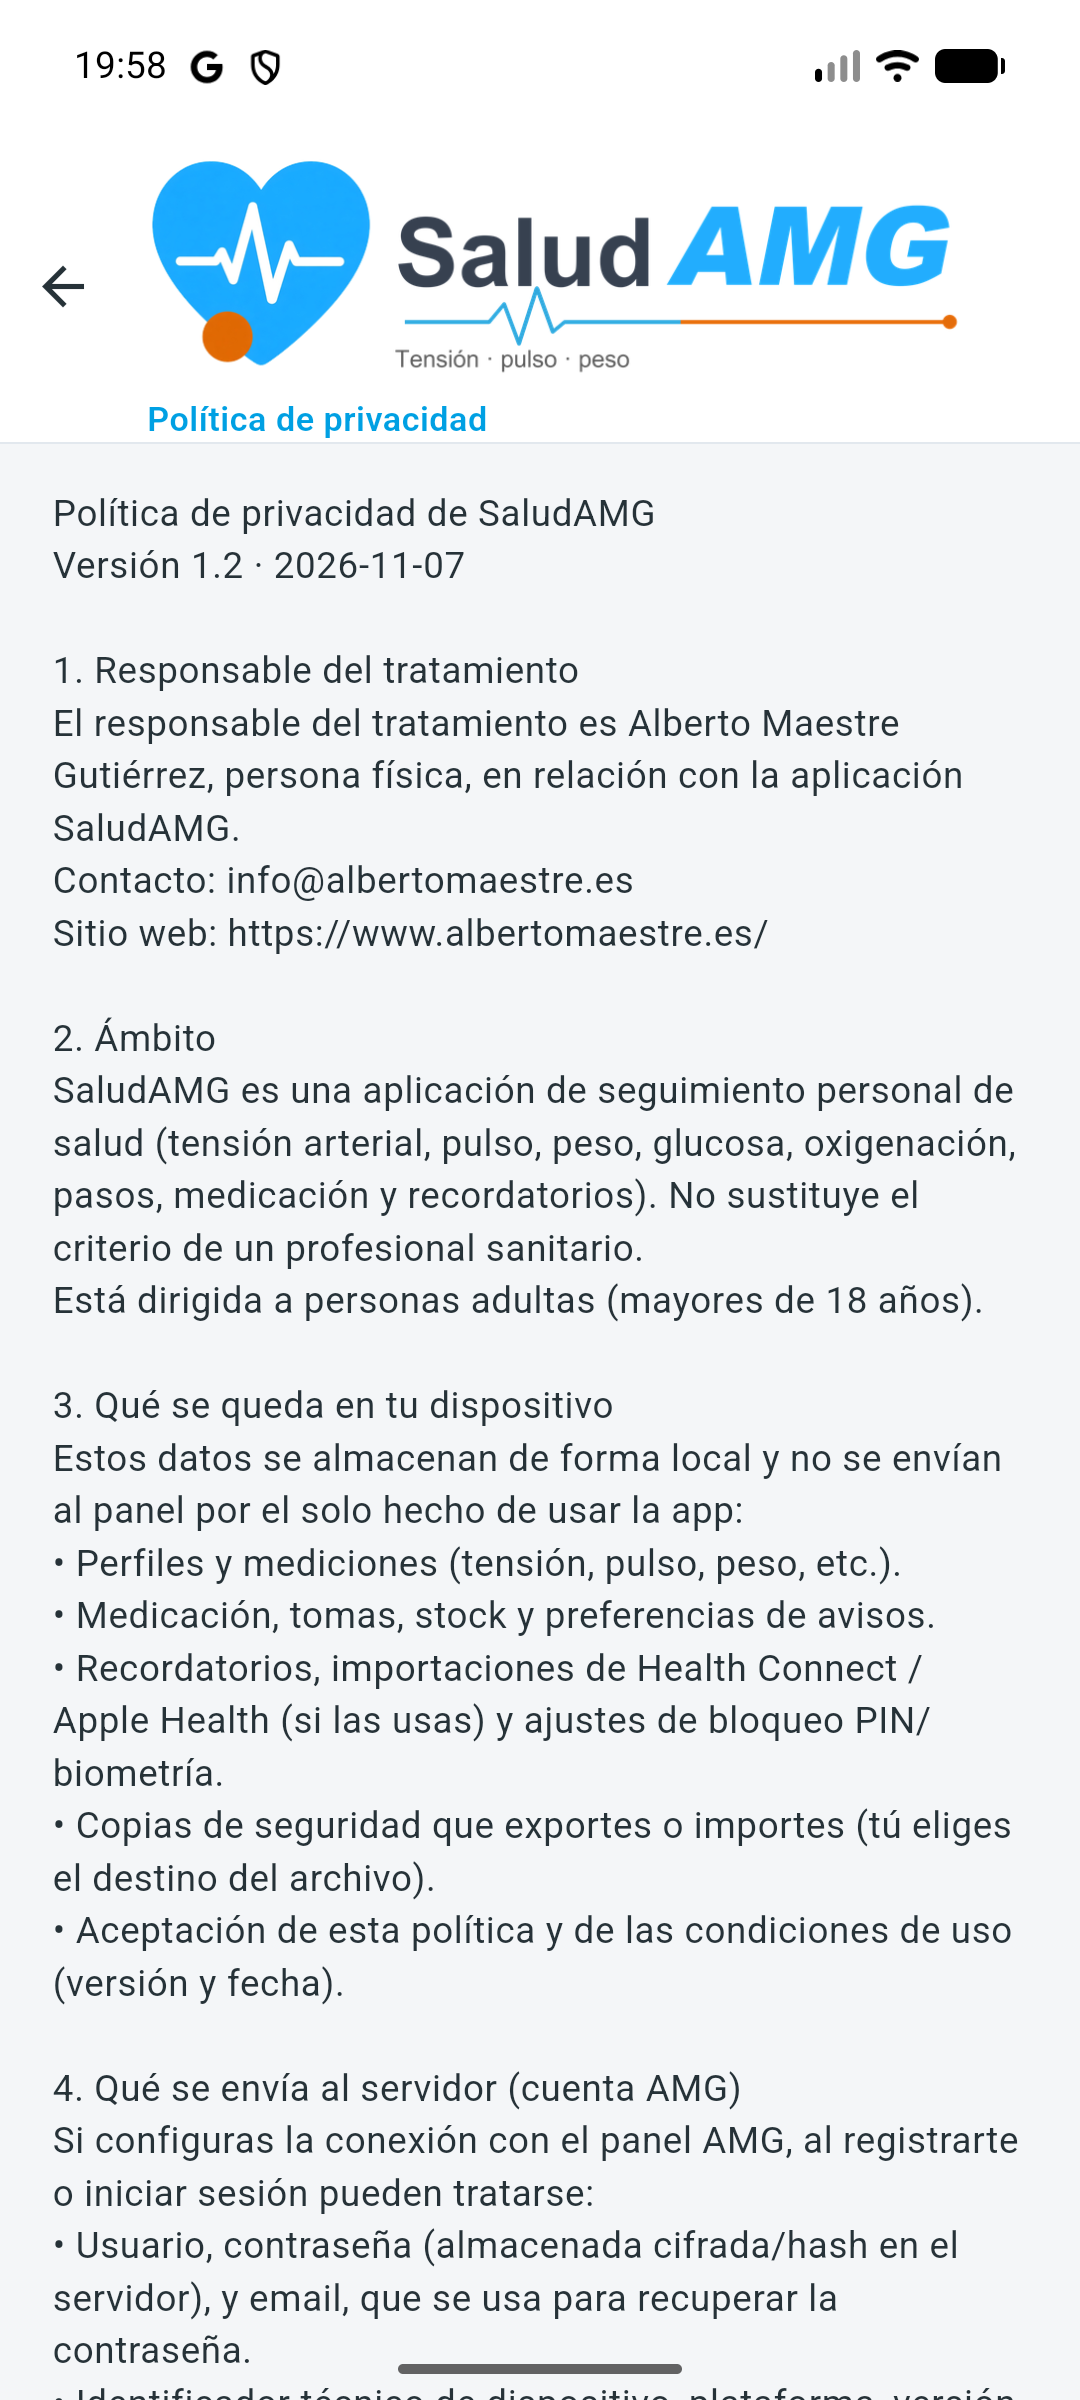
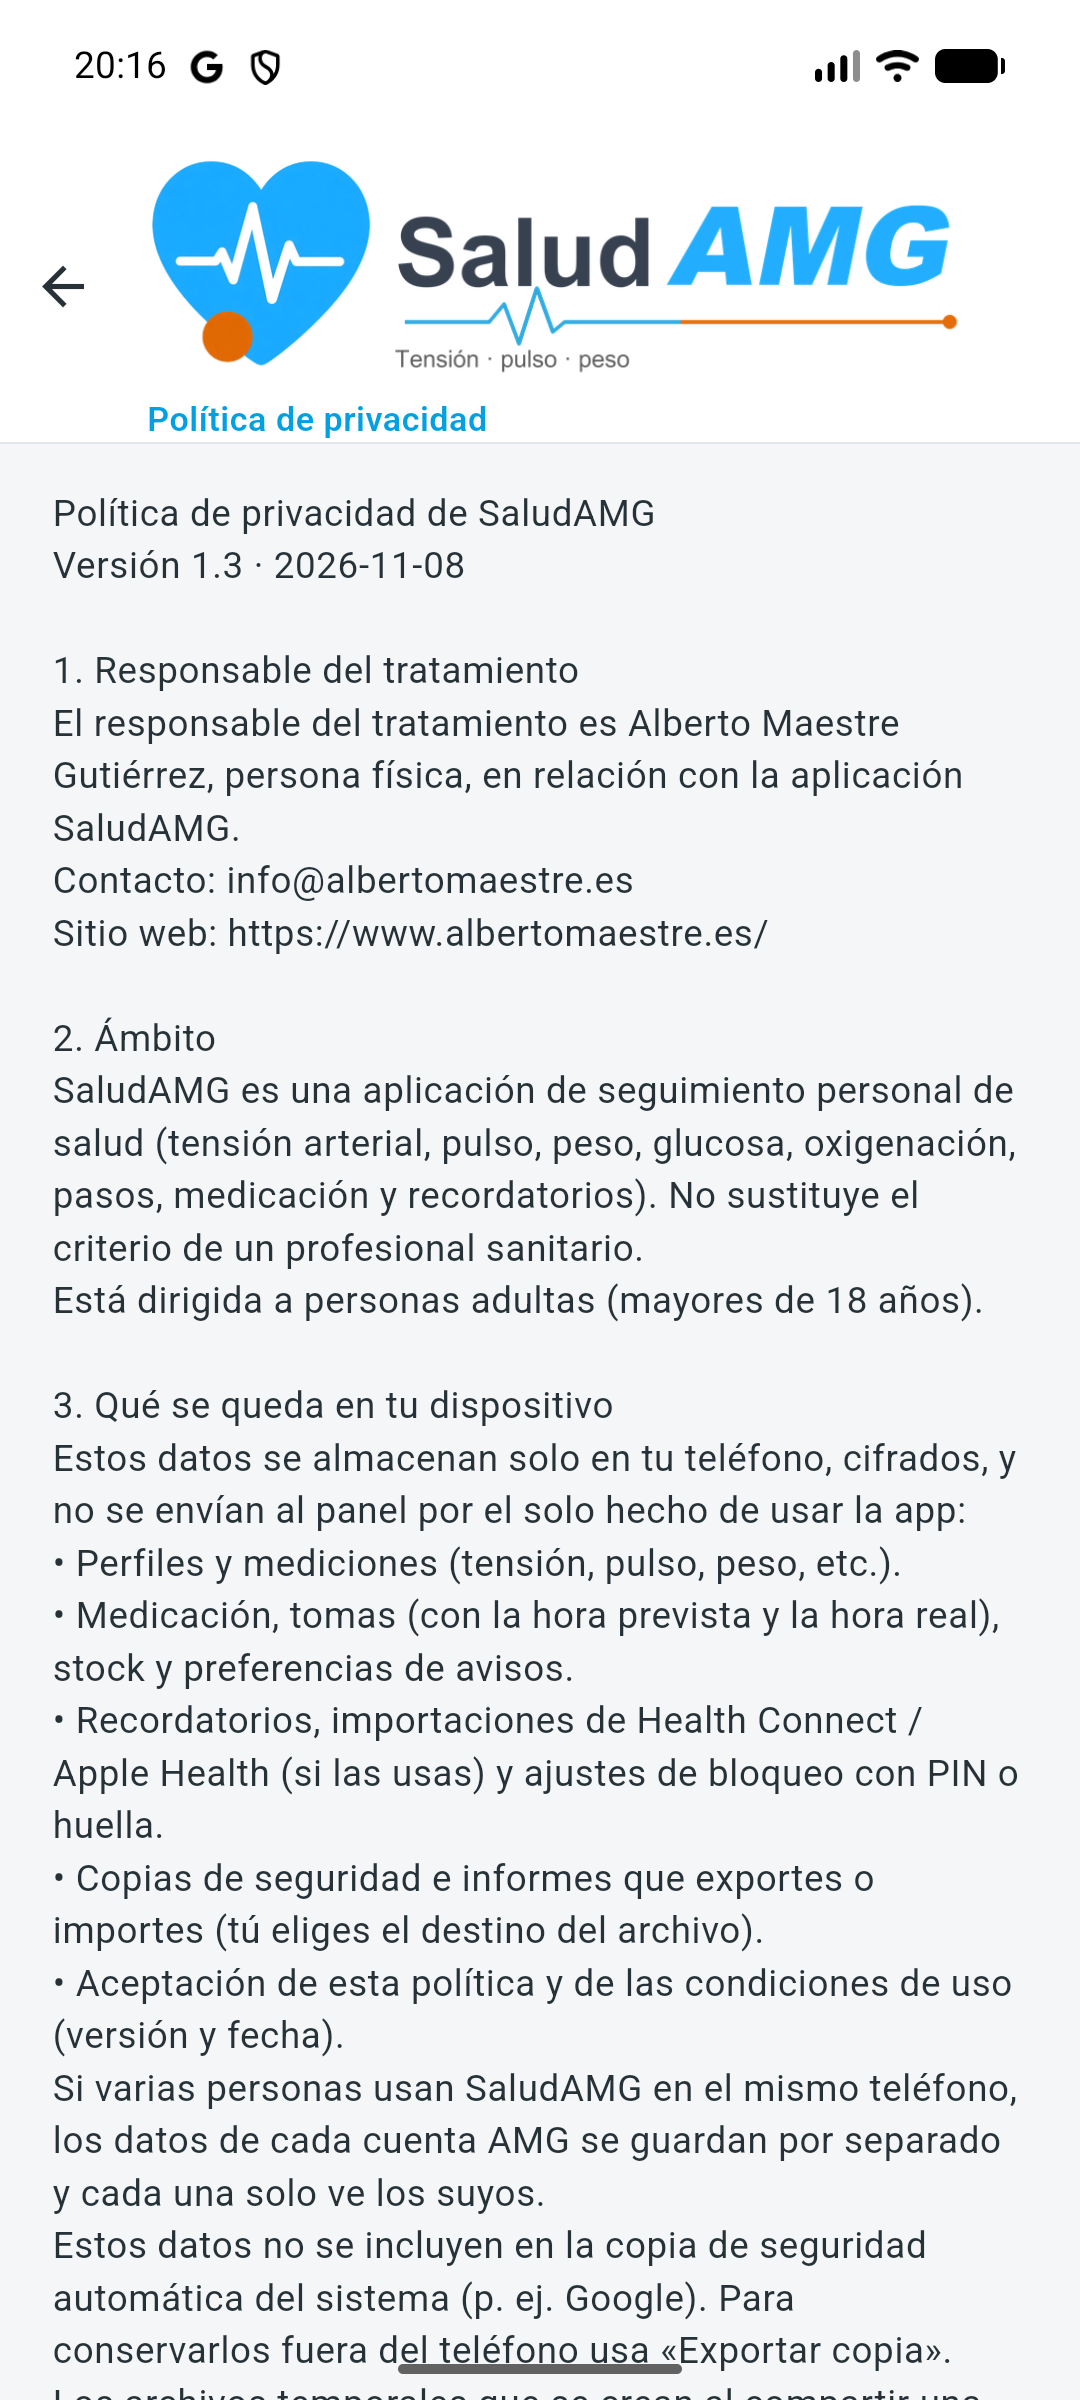
Política de privacidad 1.3 y nueva aceptación
- Política al día: datos cifrados y separados por cuenta, fuera de la
  copia automática del sistema, comprobación periódica de la cuenta
  (solo usuario y app), conservación al cerrar sesión, derechos sobre
  datos locales y medidas de seguridad reales.
- Quien ya tiene la sesión abierta debe aceptar la nueva versión una vez
  (resumen de cambios, enlace a la política, Acepto / Cerrar sesión);
  la aceptación se envía al panel.
- Alta: la casilla indica las versiones de privacidad y condiciones.
- Manual y captura de la política actualizados.

diff --git a/lib/legal/privacy_content.dart b/lib/legal/privacy_content.dart
@@ -1,7 +1,7 @@
 /// Política de privacidad de SaludAMG (texto en la app).
 abstract final class PrivacyContent {
-  static const String version = '1.2';
-  static const String versionDate = '2026-11-07';
+  static const String version = '1.3';
+  static const String versionDate = '2026-11-08';
   static const String responsable = 'Alberto Maestre Gutiérrez';
   static const String emailContacto = 'info@albertomaestre.es';
   static const String web = 'https://www.albertomaestre.es/';
@@ -13,6 +13,15 @@ abstract final class PrivacyContent {
   static const String title = 'Política de privacidad';
   static const String subtitle =
       'Información sobre el tratamiento de datos personales (RGPD / LOPDGDD)';
+
+  /// Resumen de lo que cambia respecto a la versión anterior (se muestra al
+  /// pedir de nuevo la aceptación a quien ya tenía la sesión abierta).
+  static const String cambios =
+      '• Tus datos de salud se guardan cifrados en el teléfono y separados por '
+      'cuenta AMG.\n'
+      '• No se incluyen en la copia automática del sistema (Google).\n'
+      '• La app comprueba de vez en cuando con el panel que tu cuenta sigue '
+      'activa (solo se envían tu usuario y la app).';
 
   static String get fullText => '''
 Política de privacidad de $appName
@@ -28,23 +37,28 @@ $appName es una aplicación de seguimiento personal de salud (tensión arterial,
 Está dirigida a personas adultas (mayores de 18 años).
 
 3. Qué se queda en tu dispositivo
-Estos datos se almacenan de forma local y no se envían al panel por el solo hecho de usar la app:
+Estos datos se almacenan solo en tu teléfono, cifrados, y no se envían al panel por el solo hecho de usar la app:
 • Perfiles y mediciones (tensión, pulso, peso, etc.).
-• Medicación, tomas, stock y preferencias de avisos.
-• Recordatorios, importaciones de Health Connect / Apple Health (si las usas) y ajustes de bloqueo PIN/biometría.
-• Copias de seguridad que exportes o importes (tú eliges el destino del archivo).
+• Medicación, tomas (con la hora prevista y la hora real), stock y preferencias de avisos.
+• Recordatorios, importaciones de Health Connect / Apple Health (si las usas) y ajustes de bloqueo con PIN o huella.
+• Copias de seguridad e informes que exportes o importes (tú eliges el destino del archivo).
 • Aceptación de esta política y de las condiciones de uso (versión y fecha).
+Si varias personas usan $appName en el mismo teléfono, los datos de cada cuenta AMG se guardan por separado y cada una solo ve los suyos.
+Estos datos no se incluyen en la copia de seguridad automática del sistema (p. ej. Google). Para conservarlos fuera del teléfono usa «Exportar copia».
+Los archivos temporales que se crean al compartir una copia o un informe se borran solos del teléfono a los pocos minutos.
 
 4. Qué se envía al servidor (cuenta AMG)
 Si configuras la conexión con el panel AMG, al registrarte o iniciar sesión pueden tratarse:
 • Usuario, contraseña (almacenada cifrada/hash en el servidor), y email, que se usa para recuperar la contraseña.
 • Identificador técnico de dispositivo, plataforma, versión de la app y build.
 • App solicitada ($appName), estado de la cuenta (pendiente / activa) y sesiones.
-No se envían al panel tus mediciones, medicación ni historial clínico como parte del registro de cuenta.
+• Comprobación periódica de la cuenta: con la sesión abierta y conexión a internet, la app pregunta al panel, como mucho cada 12 horas, si tu cuenta sigue activa y con acceso a $appName. Solo se envían tu usuario y el nombre de la app.
+No se envían al panel tus mediciones, medicación ni historial clínico en ningún momento.
 
 5. Finalidades
 • Permitir el uso local de $appName en tu dispositivo.
 • Gestionar el alta de cuenta, la aprobación por el administrador y el acceso a la app.
+• Comprobar que la cuenta sigue activa y cerrar la sesión en el teléfono si el administrador la bloquea o retira el acceso.
 • Soporte técnico y control de instalaciones/dispositivos.
 • Comprobar actualizaciones de la app (metadata de versión), sin enviar tu historial de salud.
 
@@ -54,7 +68,7 @@ No se envían al panel tus mediciones, medicación ni historial clínico como pa
 • Interés legítimo en seguridad técnica y prevención de abusos (art. 6.1.f RGPD), cuando proceda.
 
 7. Conservación
-• Datos en el dispositivo: mientras uses la app o hasta que los borres (desinstalación, borrado de datos o restauración).
+• Datos en el dispositivo: mientras uses la app o hasta que los borres (desinstalación, borrado de datos o restauración). Cerrar la sesión no los borra: siguen cifrados en el teléfono para cuando vuelvas a entrar con la misma cuenta.
 • Cuenta e instalación en servidor: mientras la cuenta esté activa o sea necesario para soporte y seguridad, y después según plazos legales.
 
 8. Destinatarios
@@ -68,9 +82,16 @@ Si autorizas la sincronización con la plataforma de salud del sistema, $appName
 10. Derechos
 Puedes ejercer acceso, rectificación, supresión, oposición, limitación y, cuando proceda, portabilidad, así como retirar el consentimiento.
 Escribe a $emailContacto. También puedes reclamar ante la AEPD (www.aepd.es).
+Los datos que solo están en tu teléfono (mediciones, medicación…) no los tiene el responsable: puedes consultarlos, exportarlos o borrarlos tú desde la app o desinstalándola.
 
 11. Seguridad
-Se aplican medidas razonables (p. ej. HTTPS hacia el panel, hash de contraseñas, bloqueo local opcional). Ningún sistema es 100 % seguro: protege el dispositivo y las copias de seguridad exportadas.
+Se aplican medidas razonables, entre ellas:
+• Datos de salud cifrados (AES) en el teléfono, con la clave en el almacén seguro del sistema.
+• Sesión de la cuenta guardada en el almacén seguro del sistema.
+• HTTPS hacia el panel y contraseñas guardadas con hash en el servidor.
+• Bloqueo opcional con huella o PIN, con límite de intentos.
+• Copias de seguridad exportadas con contraseña: cifradas y con sello para detectar modificaciones.
+Ningún sistema es 100 % seguro: protege el teléfono y guarda en un lugar seguro las copias que exportes, sobre todo si son sin contraseña.
 
 12. Menores
 $appName está dirigida solo a adultos. No se autoriza el registro de menores de 18 años.

diff --git a/lib/presentation/screens/home_screen.dart b/lib/presentation/screens/home_screen.dart
@@ -5,6 +5,7 @@ import 'package:shared_preferences/shared_preferences.dart';
 import '../../app.dart';
 import '../../app_scope.dart';
 import '../../core/theme/app_theme.dart';
+import '../../legal/privacy_content.dart';
 import '../../services/app_auth_service.dart';
 import '../../services/app_update_service.dart';
 import '../../services/debug_seed_service.dart';
@@ -18,6 +19,7 @@ import 'cuenta_amg_screen.dart';
 import 'help/ayuda_screen.dart';
 import 'history_screen.dart';
 import 'import_settings_screen.dart';
+import 'legal_document_screen.dart';
 import 'lock_settings_screen.dart';
 import 'medication_preferences_screen.dart';
 import 'measurement_form_screen.dart';
@@ -45,12 +47,73 @@ class _HomeScreenState extends State<HomeScreen> {
   void initState() {
     super.initState();
     WidgetsBinding.instance.addPostFrameCallback((_) async {
+      if (!await _checkLegalUpdate()) return;
       await _offerBiometrics();
       await _checkUpdatesOnStart();
     });
   }
 
   static const _kBioDeclined = 'biometric_offer_declined';
+
+  /// Política nueva tras actualizar la app: se pide aceptarla una vez.
+  /// Devuelve `false` si ha cerrado la sesión.
+  Future<bool> _checkLegalUpdate() async {
+    final auth = AppAuthService();
+    if (!await auth.needsLegalUpdate() || !mounted) return true;
+    final choice = await showDialog<String>(
+      context: context,
+      barrierDismissible: false,
+      builder: (ctx) => PopScope(
+        canPop: false,
+        child: AlertDialog(
+          title: const Text('Política de privacidad actualizada'),
+          content: SingleChildScrollView(
+            child: Column(
+              mainAxisSize: MainAxisSize.min,
+              crossAxisAlignment: CrossAxisAlignment.start,
+              children: [
+                Text(
+                  'Hemos actualizado la política de privacidad '
+                  '(versión ${PrivacyContent.version}). Lo principal:',
+                ),
+                const SizedBox(height: 8),
+                const Text(PrivacyContent.cambios),
+                const SizedBox(height: 8),
+                TextButton(
+                  style: TextButton.styleFrom(padding: EdgeInsets.zero),
+                  onPressed: () => Navigator.of(ctx).push(
+                    MaterialPageRoute<void>(
+                      builder: (_) => const LegalDocumentScreen(
+                        kind: LegalDocumentKind.privacy,
+                      ),
+                    ),
+                  ),
+                  child: const Text('Leer la política completa'),
+                ),
+              ],
+            ),
+          ),
+          actions: [
+            TextButton(
+              onPressed: () => Navigator.pop(ctx, 'logout'),
+              child: const Text('Cerrar sesión'),
+            ),
+            FilledButton(
+              onPressed: () => Navigator.pop(ctx, 'accept'),
+              child: const Text('Acepto'),
+            ),
+          ],
+        ),
+      ),
+    );
+    if (choice == 'accept') {
+      await auth.acceptCurrentLegal();
+      return true;
+    }
+    await auth.logout();
+    if (mounted) SaludAmgApp.signOut(context);
+    return false;
+  }
 
   /// Tras iniciar sesión, una sola vez: «¿Abrir SaludAMG con tu huella?».
   /// Si dice «Ahora no» no se vuelve a preguntar (queda en Configuración).

diff --git a/lib/services/app_auth_service.dart b/lib/services/app_auth_service.dart
@@ -215,6 +215,21 @@ class AppAuthService {
   /// Guarda en local que el usuario marcó privacidad/condiciones (versión actual).
   Future<void> markLegalAcceptedLocally() => _syncLocalLegalAcceptance();
 
+  /// ¿Hay sesión abierta pero sin aceptar la versión legal actual? Pasa tras
+  /// actualizar la app con una política nueva: se pide aceptarla una vez.
+  Future<bool> needsLegalUpdate() async {
+    if (!isConfigured || !await hasSession()) return false;
+    return !await hasLocalLegalAcceptance();
+  }
+
+  /// Acepta la versión legal actual: en local y en el panel (si hay red; si
+  /// no, se enviará en el próximo inicio de sesión).
+  Future<void> acceptCurrentLegal() async {
+    await _syncLocalLegalAcceptance();
+    final t = await token();
+    if (t != null && t.isNotEmpty) await _acceptLegalOnServer(t);
+  }
+
   Future<AppAuthResult> login({
     required String username,
     required String password,

diff --git a/lib/presentation/screens/auth/auth_gate_screen.dart b/lib/presentation/screens/auth/auth_gate_screen.dart
@@ -761,7 +761,10 @@ class _LegalAcceptance extends StatelessWidget {
                 ),
               ),
             ),
-            TextSpan(text: ' de SaludAMG (v. ${PrivacyContent.version}).'),
+            TextSpan(
+              text: ' de SaludAMG (privacidad v. ${PrivacyContent.version}, '
+                  'condiciones v. ${TermsContent.version}).',
+            ),
           ],
         ),
       ),

diff --git a/docs/manual-web-cms.html b/docs/manual-web-cms.html
@@ -355,7 +355,7 @@
 
   <h2 id="legal">9. Privacidad y condiciones</h2>
   <p>
-    Los textos legales propios de SaludAMG (versión 1.2 · 2026-11-07) están en la app
+    Los textos legales propios de SaludAMG (privacidad 1.3 · 2026-11-08; condiciones 1.2 · 2026-11-07) están en la app
     (Ayuda y Acerca de). Debes aceptarlos al crear la cuenta AMG.
   </p>
   <figure>
